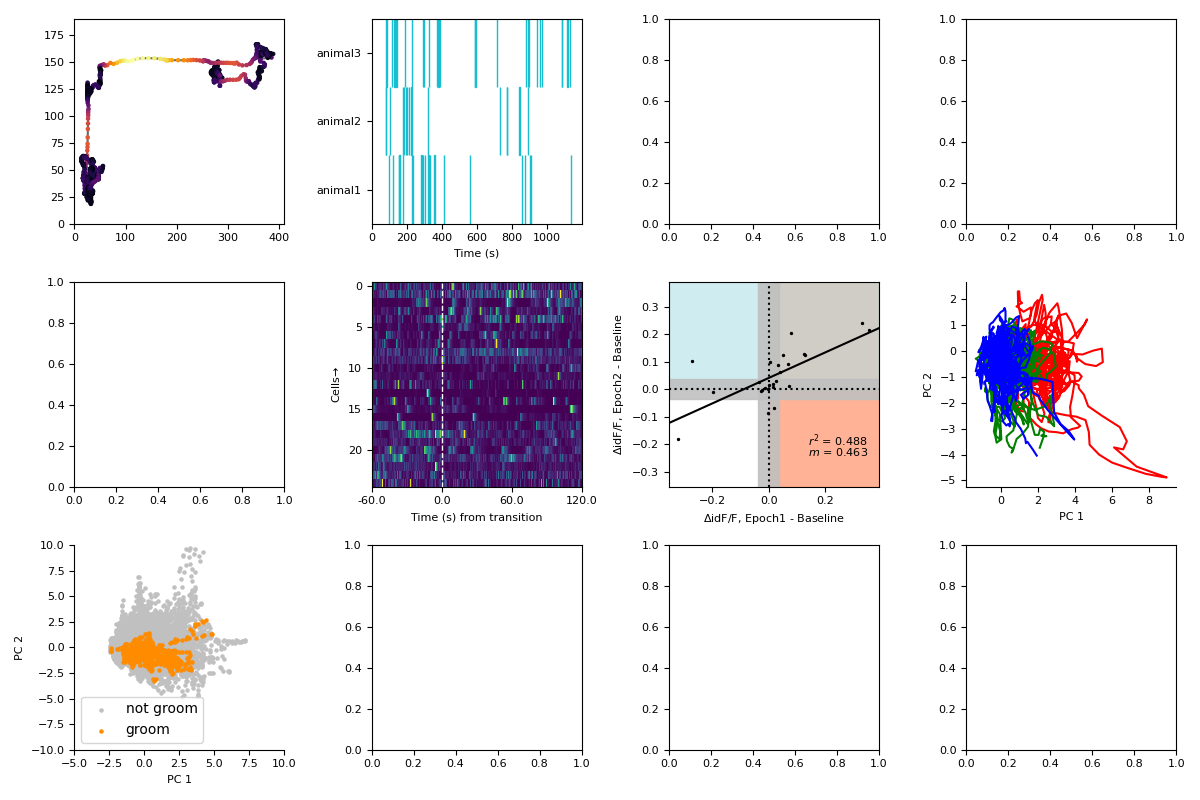
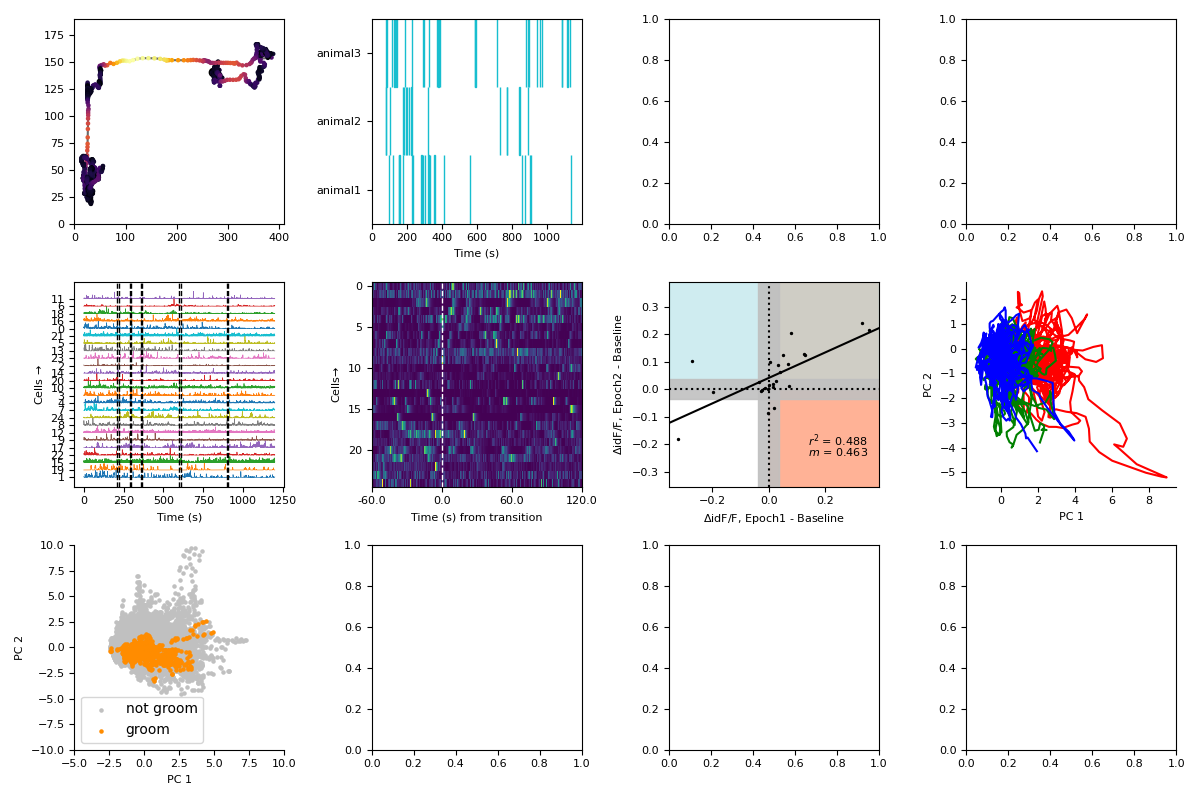
added cell traces script

diff --git a/example-scripts/ex09_vis_heatmap.py b/example-scripts/ex09_vis_heatmap.py
@@ -1,0 +1,67 @@
+# ex03_vis_heatmap.py
+from tkinter.filedialog import askopenfilename
+import matplotlib.pyplot as plt
+import pandas as pd
+import numpy as np
+
+def show_heatmap(ax,sudf_filepath,segment_0,segment_1,display_interval,cmap='inferno'):
+    sudf = pd.read_csv(sudf_filepath)
+    SR = 1 / sudf['time'].diff().mean()
+    
+    # calculate change in activity between segment 1 and segment 2 for each cell
+    
+    # get sample indexes for each segment start and end time
+    idx00 = int( segment_0[0]*SR )
+    idx01 = int( segment_0[1]*SR )
+    idx10 = int( segment_1[0]*SR )
+    idx11 = int( segment_1[1]*SR )
+
+    delta_aucs = []
+    
+    # ignore 'time' column
+    sort_df = sudf.drop('time',axis=1).reset_index(drop=True)
+    for i,label in enumerate(sort_df.columns): 
+        area_0 = sort_df.iloc[idx00:idx01,i].sum()
+        area_1 = sort_df.iloc[idx10:idx11,i].sum()
+        delta_aucs.append(area_1 - area_0)
+    indxes = np.argsort( delta_aucs )[::-1]
+    
+    # focus on display interval and sort the cells
+    disp0 = int( display_interval[0]*SR )
+    disp1 = int( display_interval[1]*SR )
+    vis_df = sort_df.iloc[disp0:disp1,indxes]
+    
+    # normalize cell activity for visualization
+    for col in vis_df.columns:
+        vis_df[col] = ( vis_df[col] - vis_df[col].min() ) / ( vis_df[col].max() - vis_df[col].min() )
+
+    # generate the heatmap and add axis labels
+    ax.imshow(vis_df.transpose(),aspect='auto',interpolation='none',cmap=cmap)
+    seg_len = (segment_0[1]-segment_0[0])*SR
+    ax.axvline( seg_len , color='white',linestyle='--',linewidth=1.0)
+    xticks = [ k*seg_len for k in range(0,4) ]
+    xticklabels = [ (t-seg_len)/SR for t in xticks ]
+    ax.set_xticks( xticks )
+    ax.set_xticklabels( xticklabels )
+    ax.set_ylabel(r'Cells$\to$')
+    ax.set_xlabel('Time (s) from transition')
+        
+if __name__ == '__main__':
+    
+    # specify inputs to function
+    sudf_filepath = askopenfilename(
+                        title='Select traces .csv file to visualize',
+                        filetypes=[('CSV Files', '*.csv'), ('All Files', '*.*')]
+                        )
+    segment_0 = [240,300]
+    segment_1 = [300,360]
+    display_interval = [240,420]
+    
+    # create figure and visualize the data
+    plt.style.use('multipanel_style.mplstyle')
+    fig,ax = plt.subplots(1,1)
+    show_heatmap(ax,sudf_filepath,
+                        segment_0 = segment_0,
+                        segment_1 = segment_1,
+                        display_interval = display_interval)
+    plt.show()

diff --git a/example-scripts/ex09_vis_cell_traces.py b/example-scripts/ex09_vis_cell_traces.py
@@ -1,0 +1,62 @@
+# ex03_vis_heatmap.py
+from tkinter.filedialog import askopenfilename
+import matplotlib.pyplot as plt
+import pandas as pd
+import numpy as np
+
+def plot_cell_traces(ax,sudf_filepath,sort_interval,key_times):
+    sudf = pd.read_csv(sudf_filepath)
+    SR = 1 / sudf['time'].diff().mean()
+    print(sudf.head())
+    
+    # get sample indexes for the sort interval
+    idx0 = int( sort_interval[0]*SR )
+    idx1 = int( sort_interval[1]*SR )
+    
+    # ignore 'time' column
+    sort_df = sudf.drop('time',axis=1).reset_index(drop=True)
+    
+    # sort the cells by max time within a given interval
+    max_times = []
+    for i,label in enumerate(sort_df.columns): 
+        max_time = sort_df[label].iloc[idx0:idx1].idxmax()
+        max_times.append(max_time)
+    indxes = np.argsort( max_times )[::-1]
+    
+    # focus on display interval and sort the cells
+    vis_df = sort_df.iloc[:,indxes]
+    
+    # normalize cell activity for visualization
+    for col in vis_df.columns:
+        vis_df[col] = ( vis_df[col] - vis_df[col].min() ) / ( vis_df[col].max() - vis_df[col].min() )
+
+    # plot the cells
+    for i,cell_label in enumerate(list(vis_df)):
+        ax.plot(sudf['time'],vis_df[cell_label]+(i),linewidth=0.5)
+
+    # add the lines
+    for key_time in key_times:
+        ax.axvline(key_time,color='k',linestyle='--',linewidth=1.0)
+        
+    ax.set_yticks( [i for i in range(0,len(indxes))] )    
+    ax.set_yticklabels( [i for i in indxes] )
+    ax.set_ylabel(r'Cells $\to$')
+    ax.set_xlabel('Time (s)')
+    
+if __name__ == '__main__':
+    
+    # specify inputs to function
+    sudf_filepath = askopenfilename(
+                        title='Select traces .csv file to visualize',
+                        filetypes=[('CSV Files', '*.csv'), ('All Files', '*.*')]
+                        )
+    sort_interval = (210,218)
+    key_times = (210,218,290,298,360,368,600,608,900,908)
+    
+    # create figure and visualize the data
+    plt.style.use('../multipanel_style.mplstyle')
+    fig,ax = plt.subplots(1,1,figsize=(8,3))
+    plot_cell_traces(ax,sudf_filepath,
+                        sort_interval = sort_interval,
+                        key_times = key_times)
+    plt.show()

diff --git a/demo.py b/demo.py
@@ -7,6 +7,7 @@ import sys,os
 sys.path.append(os.path.join(os.path.dirname(__file__),'example-scripts'))
 from ex02_vis_trajectory_speedoverlay import plot_trajectory_speedoverlay
 from ex04_vis_running_bouts import plot_running_bouts
+from ex09_vis_cell_traces import plot_cell_traces
 from ex11_vis_heatmap import show_heatmap
 from ex13_vis_epoch_scatter import plot_epoch_scatter
 from ex15_vis_pca_segments import plot_pca_segments
@@ -30,6 +31,14 @@ plot_running_bouts(axes[0,1],
                     speed_thresh = 50.0,
                     min_bout_duration = 0.5,
                     )
+
+# all cell traces in a recording sorted by time of peak within a given interval
+sudf_filepath = os.path.join(os.path.dirname(__file__),'example-data/animal3-calcium.csv')
+plot_cell_traces(axes[1,0],
+                sudf_filepath,
+                sort_interval = (210,218),
+                key_times = (210,218,290,298,360,368,600,608,900,908),
+                )
 
 # heatmap of calcium traces from a single recording
 sudf_filepath = os.path.join(os.path.dirname(__file__),'example-data/animal1-calcium.csv')
